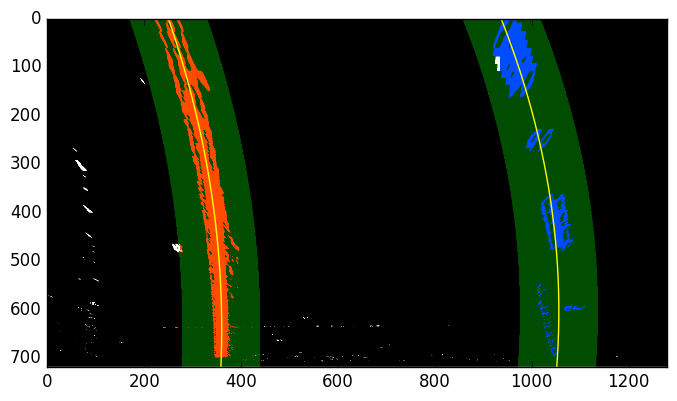
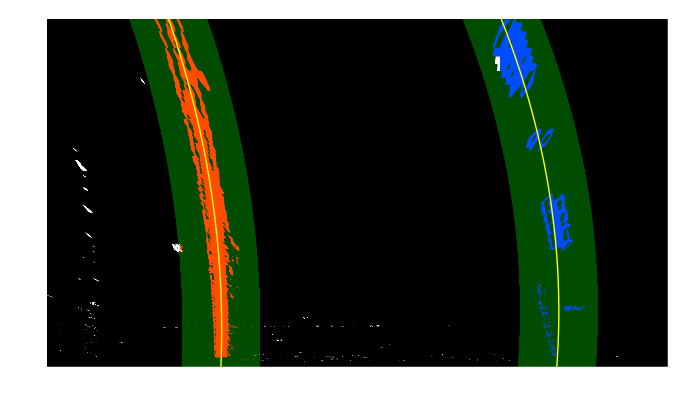
[fix] Fix formatting and remove axis in plt outputs - clean-up formatting - plt.axis("off") - add video thumbnail

diff --git a/perspective.py b/perspective.py
@@ -52,7 +52,7 @@ class Perspective:
 if __name__ == '__main__':
     perspective = Perspective()
 
-    image_file = 'test_images/test2.jpg'
+    image_file = 'test_images/test3.jpg'
     image = mpimg.imread(image_file)
     undistorted = undistort(image)
     # Create binary outputs
@@ -61,27 +61,34 @@ if __name__ == '__main__':
     warped1 = perspective.warp(abs_thresh)
     warped2 = perspective.warp(mag_thresh)
     warped3 = perspective.warp(dir_thresh)
-    warped4 = perspective.warp(hls_thresh)
+    # warped4 = perspective.warp(hls_thresh)
     warped5 = perspective.warp(hsv_thresh)
     warped6 = perspective.warp(combined_output)
     # Plot binary output images in order
-    plt.subplot(2, 3, 1)
-    plt.title("abs")
-    plt.imshow(warped1, cmap='gray')
-    plt.subplot(2, 3, 2)
-    plt.title("mag")
-    plt.imshow(warped2, cmap='gray')
-    plt.subplot(2, 3, 3)
-    plt.title("dir")
-    plt.imshow(warped3, cmap='gray')
-    plt.subplot(2, 3, 4)
-    plt.title("HLS")
-    plt.imshow(warped4, cmap='gray')
-    plt.subplot(2, 3, 5)
-    plt.title("HSV")
-    plt.imshow(warped5, cmap='gray')
-    plt.subplot(2, 3, 6)
-    plt.title("combined")
+    # plt.subplot(2, 3, 1)
+    # plt.title("Original")
+    # plt.imshow(image)
+    # plt.axis("off")
+    # plt.subplot(2, 3, 2)
+    # plt.title("Absolute")
+    # plt.imshow(warped1, cmap='gray')
+    # plt.axis("off")
+    # plt.subplot(2, 3, 3)
+    # plt.title("Magnitude")
+    # plt.imshow(warped2, cmap='gray')
+    # plt.axis("off")
+    # plt.subplot(2, 3, 4)
+    # plt.title("Directional")
+    # plt.imshow(warped3, cmap='gray')
+    # plt.axis("off")
+    # plt.subplot(2, 3, 5)
+    # plt.title("HSV")
+    # plt.imshow(warped5, cmap='gray')
+    # plt.axis("off")
+    # plt.subplot(2, 3, 6)
+    # plt.title("Combined")
     plt.imshow(warped6, cmap='gray')
+    plt.axis("off")
 
+    # plt.tight_layout()
     plt.show()

diff --git a/threshold.py b/threshold.py
@@ -131,7 +131,7 @@ def combined_threshold(img):
 
 
 if __name__ == '__main__':
-    image_file = 'test_images/test2.jpg'
+    image_file = 'test_images/test3.jpg'
     image = mpimg.imread(image_file)
     undistorted = undistort(image)
 
@@ -139,22 +139,29 @@ if __name__ == '__main__':
     abs_thresh, mag_thresh, dir_thresh, hls_thresh, hsv_thresh, combined_output = combined_threshold(undistorted)
     # Plot binary output images in order
     plt.subplot(2, 3, 1)
-    plt.title("abs")
-    plt.imshow(abs_thresh, cmap='gray')
+    plt.title("Original")
+    plt.imshow(image)
+    plt.axis("off")
     plt.subplot(2, 3, 2)
-    plt.title("mag")
-    plt.imshow(mag_thresh, cmap='gray')
+    plt.title("Absolute")
+    plt.imshow(abs_thresh, cmap='gray')
+    plt.axis("off")
     plt.subplot(2, 3, 3)
-    plt.title("dir")
-    plt.imshow(dir_thresh, cmap='gray')
+    plt.title("Magnitude")
+    plt.imshow(mag_thresh, cmap='gray')
+    plt.axis("off")
     plt.subplot(2, 3, 4)
-    plt.title("HLS")
-    plt.imshow(hls_thresh, cmap='gray')
+    plt.title("Directional")
+    plt.imshow(dir_thresh, cmap='gray')
+    plt.axis("off")
     plt.subplot(2, 3, 5)
     plt.title("HSV")
     plt.imshow(hsv_thresh, cmap='gray')
+    plt.axis("off")
     plt.subplot(2, 3, 6)
-    plt.title("combined")
+    plt.title("Combined")
     plt.imshow(combined_output, cmap='gray')
+    plt.axis("off")
 
+    plt.tight_layout()
     plt.show()

diff --git a/polyfit.py b/polyfit.py
@@ -25,6 +25,7 @@ class Polyfit:
         self.ym_per_pix = 30 / 720  # meters per pixel in y dimension
         self.xm_per_pix = 3.7 / 700  # meters per pixel in x dimension
         self.margin = 80
+
     def poly_fit_skip(self, img):
         """
         Skip the sliding windows if polynomial is empty and search in a margin around the previous line
@@ -217,7 +218,8 @@ class Polyfit:
         plt.plot(right_fit_x, plot_y, color='yellow')
         plt.xlim(0, 1280)
         plt.ylim(720, 0)
-        # save visualization
+        plt.axis("off")
+        # Save visualization
         if save_image:
             plt.savefig('./output_images/vis_window.png', bbox_inches='tight')
         plt.show()
@@ -270,7 +272,8 @@ class Polyfit:
         plt.plot(right_fit_x, plot_y, color='yellow')
         plt.xlim(0, 1280)
         plt.ylim(720, 0)
-        # save visualization
+        plt.axis("off")
+        # Save visualization
         if save_image:
             plt.savefig('./output_images/vis_area.png', bbox_inches='tight')
         plt.show()

diff --git a/undistort.py b/undistort.py
@@ -2,7 +2,11 @@ import glob
 import pickle
 import cv2
 
+
 def undistort(img):
+    """
+    Undistort image given calibration result from calibrate.py in pickle data
+    """
     # Read in saved object points and image points
     dist_pickle = pickle.load(open('./calibrate.p', "rb"))
     mtx = dist_pickle['mtx']

diff --git a/polydraw.py b/polydraw.py
@@ -53,5 +53,5 @@ if __name__ == '__main__':
     left_fit, right_fit, vars = polyfit.poly_fit_skip(warped)
     new_img = draw(image, warped, left_fit, right_fit, perspective.Minv)
     plt.imshow(new_img)
+    plt.axis("off")
     plt.show()
-    print(new_img.shape)
